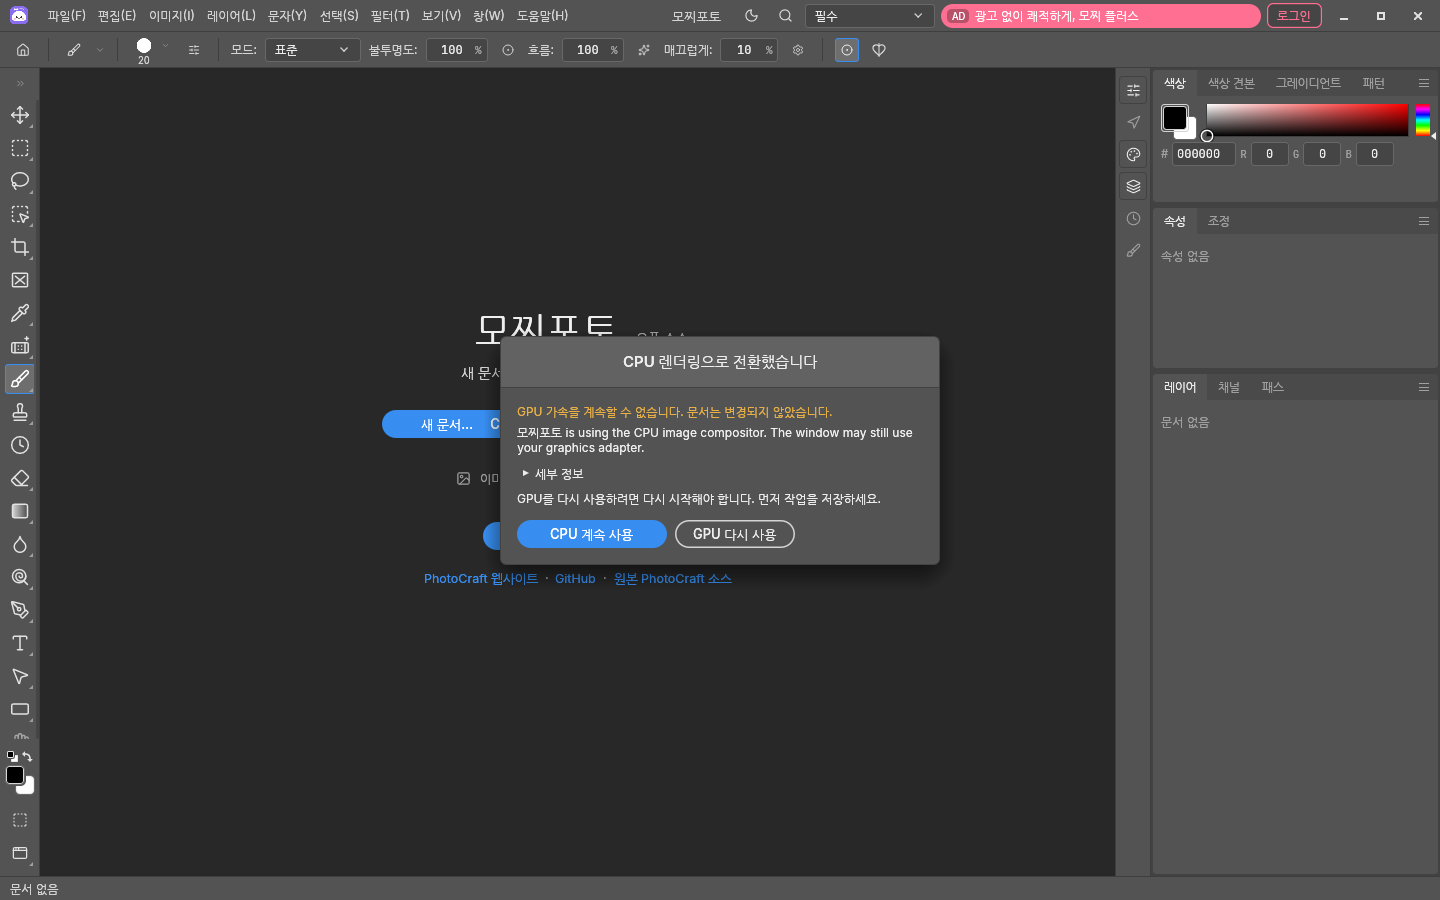
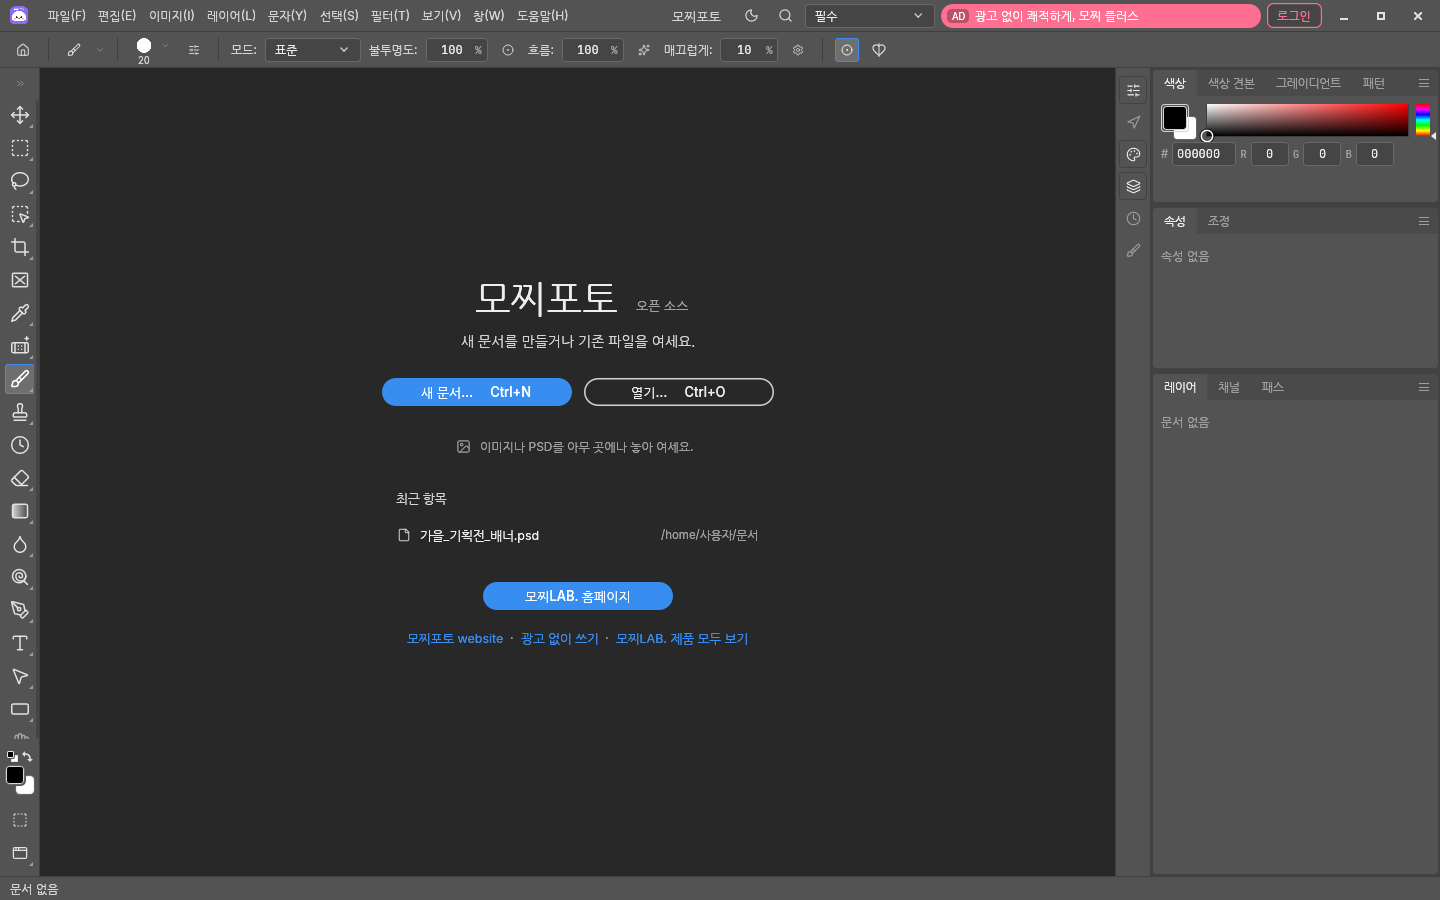
홈페이지: 모찌포토 · 모찌벡터 실제 화면 캡처로 교체 / 모찌포토 시작 화면 문구 정리
Claude-Session: https://claude.ai/code/session_011ehdwxWmUMK9cLoxiURWEz

Changed region(s): [[0.25, 0.3111, 0.6562, 0.7156]]

diff --git a/artcraft_kit/apply.py b/artcraft_kit/apply.py
@@ -178,6 +178,9 @@ def apply_photo(root, version):
          'pub const ISSUES: &str = "https://mozzilab.labelpos.com/support";')
     edit(root, links, 'tl!("Join us on Discord")', '"모찌LAB. 홈페이지"')
     edit(root, links, '(tl!("ArtCraft"), ARTCRAFT_WEBSITE)', '("모찌LAB. 제품 모두 보기", ARTCRAFT_WEBSITE)')
+    edit(root, links, '(tl!("모찌포토 website"), APP_PAGE)', '("모찌포토 소개", APP_PAGE)')
+    # 시작 화면 제목 옆 '오픈 소스' 표시 대신 모찌 플러스 안내
+    edit(root, f"{ui}/src/canvas.rs", 'tl!("open source").into()', '"무료 · 모찌LAB.".into()')
     edit(root, "crates/engine/src/shell_commands.rs", '"Join the ArtCraft Discord…"', '"모찌LAB. 홈페이지"')
     edit(root, "crates/engine/src/shell_commands.rs", '"ArtCraft Website"', '"모찌LAB. 제품 모두 보기"')
     edit(root, "crates/engine/src/shell_commands.rs", '"모찌포토 on GitHub"', '"광고 없이 쓰기 (모찌 플러스)"')
